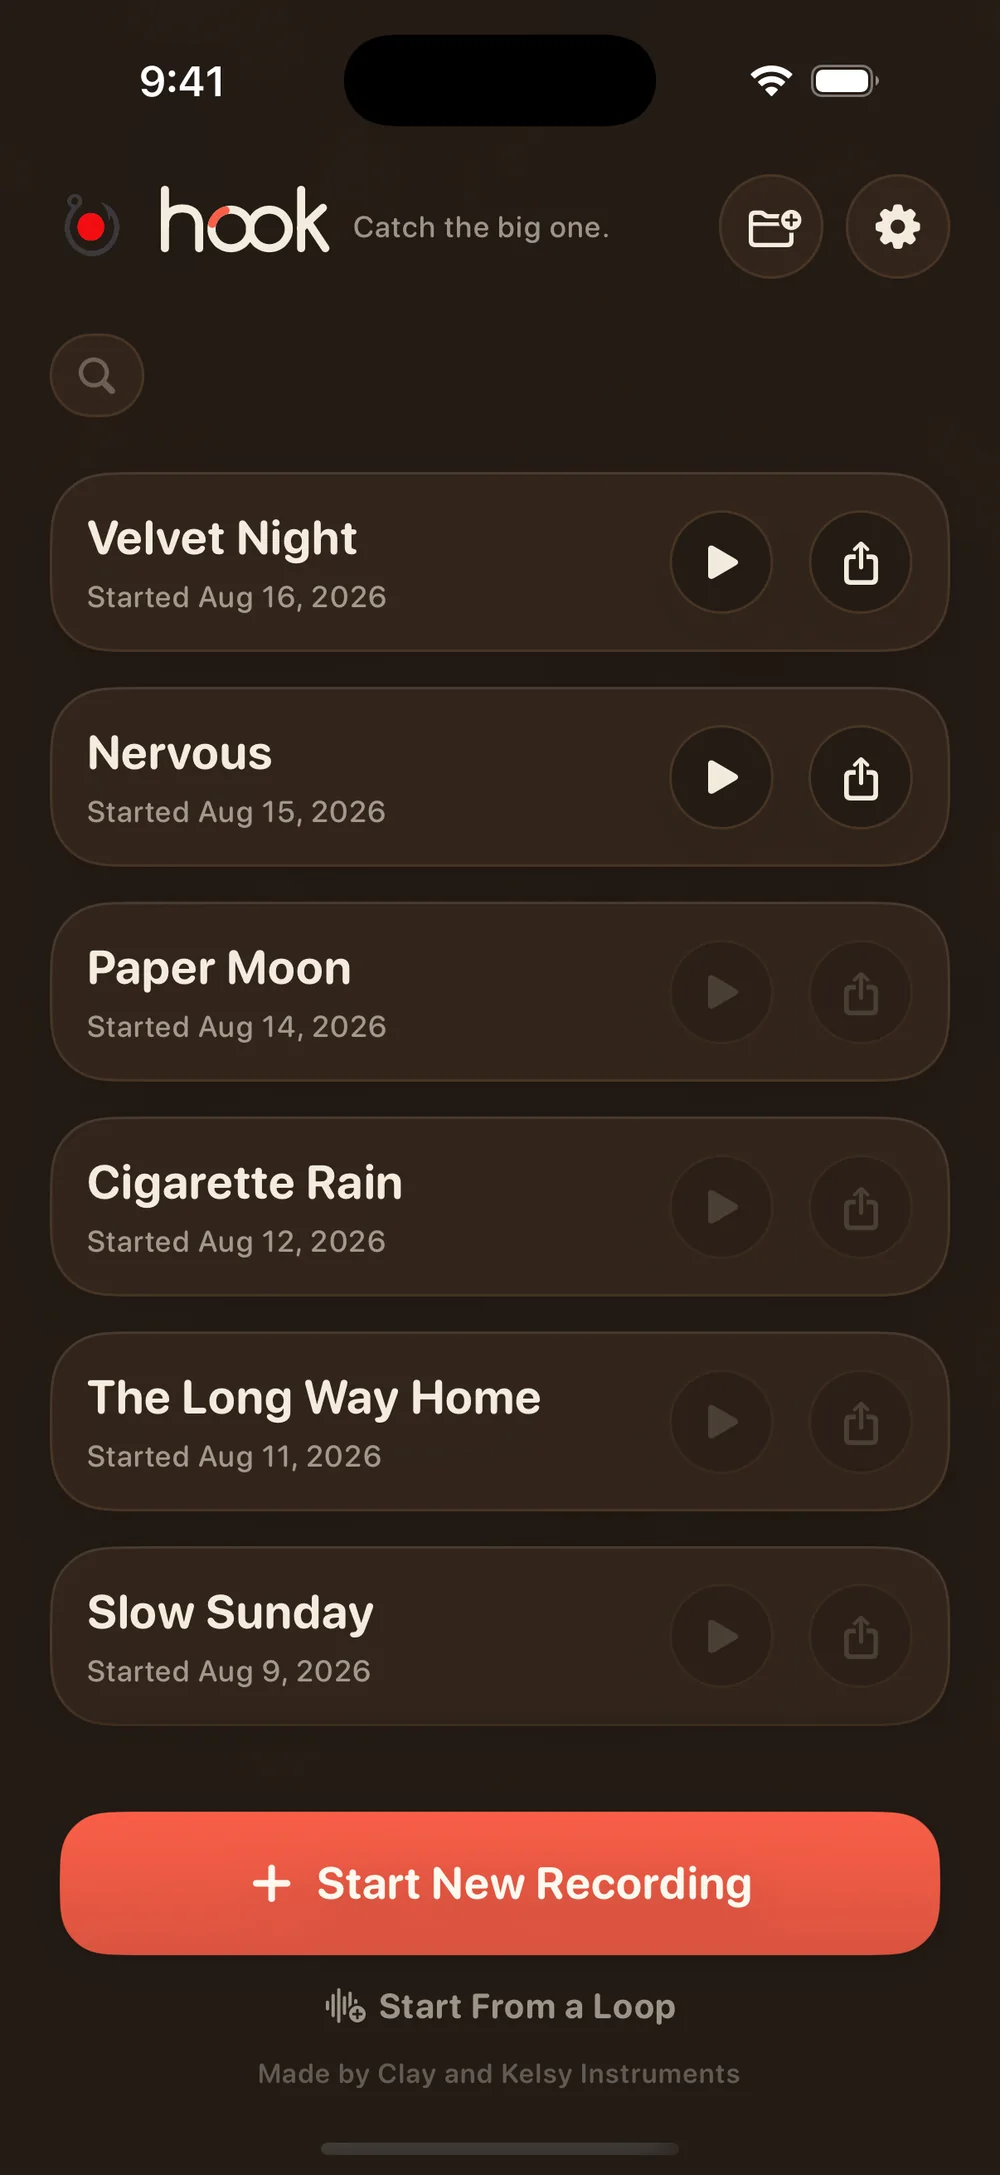
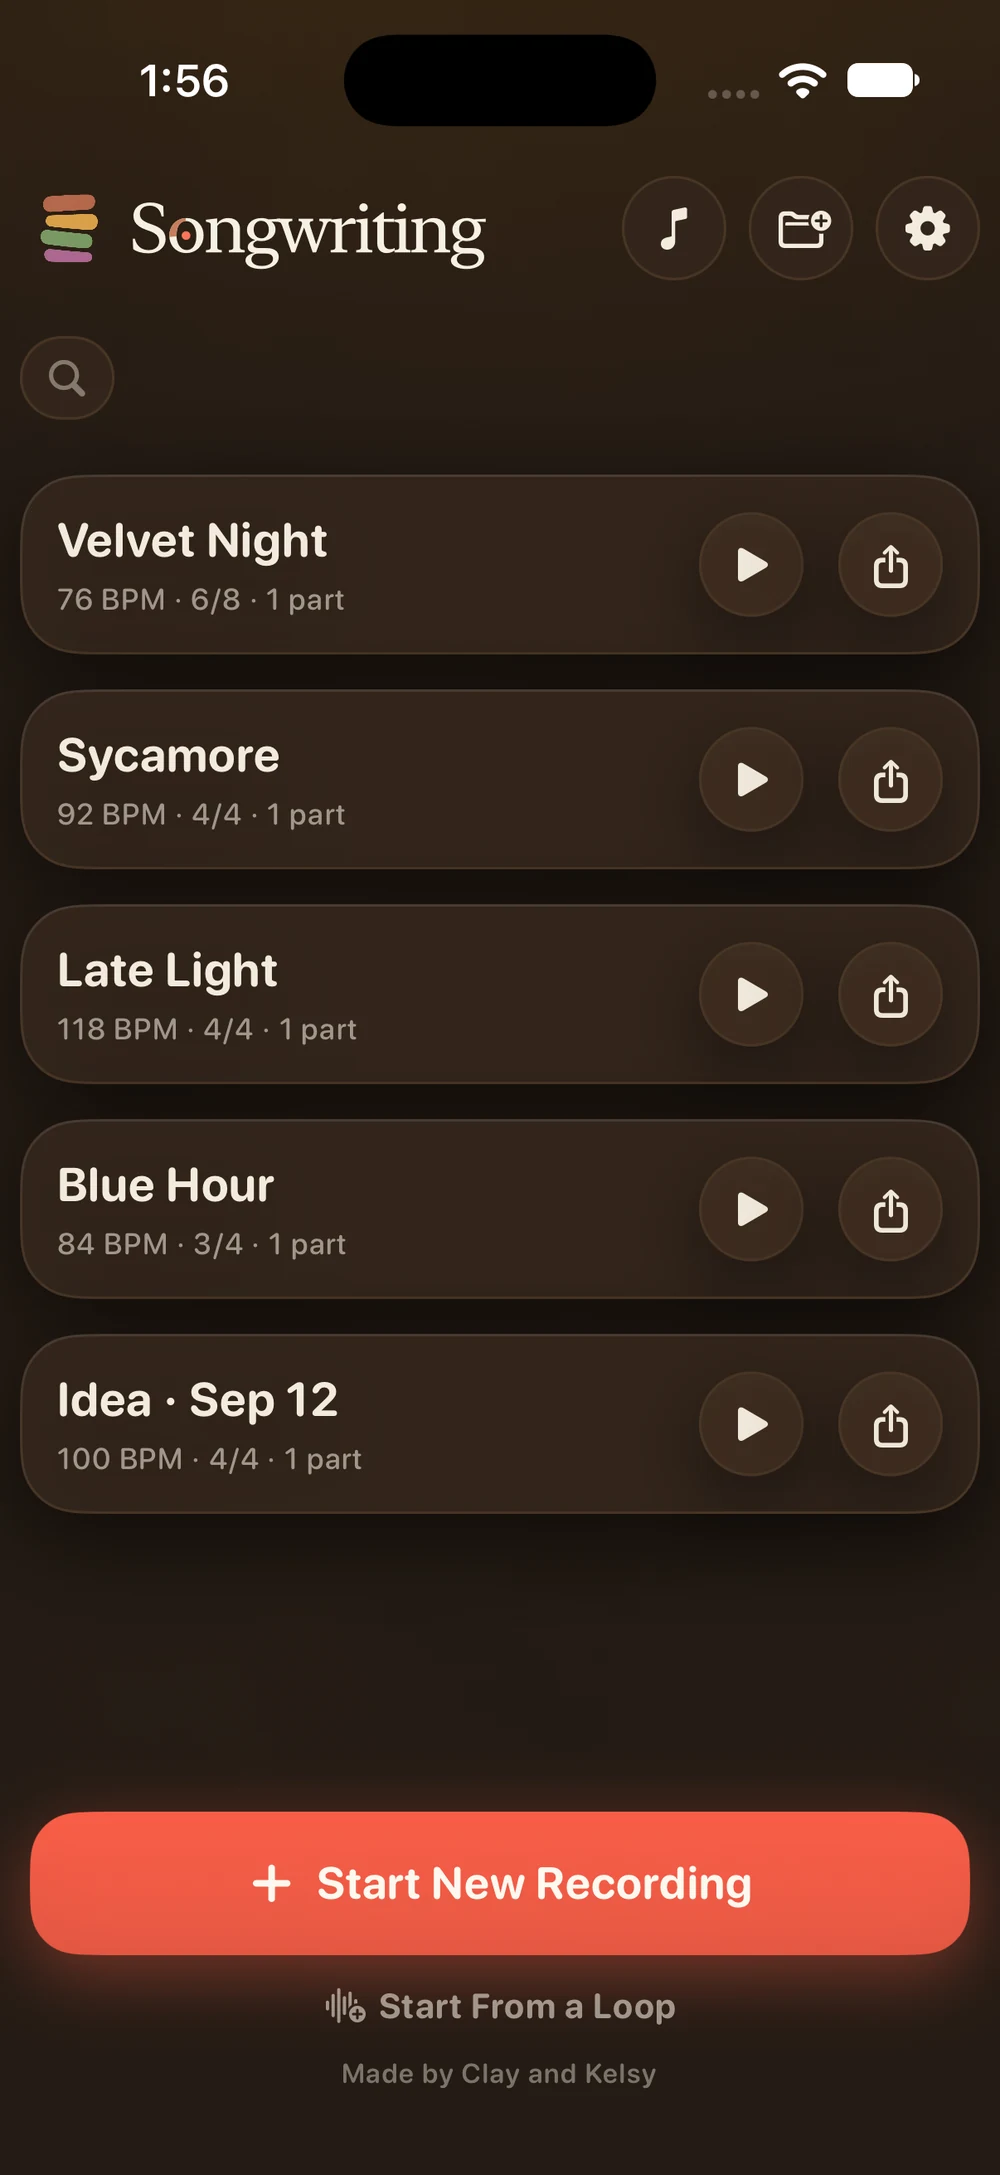
New art: the 20 app screenshots retaken on iOS 27 with the Songwriting branding
Same filenames and pixel sizes (layout unchanged); every image URL now carries
?v=20260915 so browsers and the Pages CDN refetch. Captures by the app chat
(raw 1206x2622 in Hook-Website-Kit/screenshots/2026-09-15).

diff --git a/index.html b/index.html
@@ -40,7 +40,7 @@
      the moment it scrolls away. See app.js. -->
 <link rel="icon" href="assets/hook-logo-384.png">
 <link rel="apple-touch-icon" href="assets/hook-logo-384.png">
-<link rel="preload" as="image" href="assets/recording-lyrics-light.webp" fetchpriority="high">
+<link rel="preload" as="image" href="assets/recording-lyrics-light.webp?v=20260915" fetchpriority="high">
 <link rel="preconnect" href="https://fonts.googleapis.com">
 <link rel="preconnect" href="https://fonts.gstatic.com" crossorigin>
 <link rel="preconnect" href="https://cdn.jsdelivr.net">
@@ -122,15 +122,15 @@
     <figure class="phone hero-phone" id="heroPhone">
       <div class="screen">
         <video class="hero-video" id="heroVideo" muted playsinline loop preload="metadata" hidden></video>
-        <img data-cycle="0" class="s-light on" src="assets/recording-lyrics-light.webp" alt="A recording in the app: tempo, sections, and lyrics with rhyming words colored by sound, chords set over the words" width="664" height="1440" fetchpriority="high" decoding="async">
+        <img data-cycle="0" class="s-light on" src="assets/recording-lyrics-light.webp?v=20260915" alt="A recording in the app: tempo, sections, and lyrics with rhyming words colored by sound, chords set over the words" width="664" height="1440" fetchpriority="high" decoding="async">
         <!-- swapped in by script, so eager: a lazy screen would flash blank when its turn came -->
-        <img data-cycle="0" class="s-dark on"  src="assets/recording-lyrics-dark.webp"  alt="" width="664" height="1440" decoding="async">
-        <img data-cycle="1" class="s-light" src="assets/set-the-feel-light.webp" alt="" width="664" height="1440" decoding="async" style="--focus:52%">
-        <img data-cycle="1" class="s-dark"  src="assets/set-the-feel-dark.webp"  alt="" width="664" height="1440" decoding="async" style="--focus:52%">
-        <img data-cycle="2" class="s-light" src="assets/04-recording-live.webp"  alt="" width="664" height="1440" decoding="async" style="--focus:22%">
-        <img data-cycle="2" class="s-dark"  src="assets/get-counted-in-dark.webp" alt="" width="664" height="1440" decoding="async" style="--focus:22%">
-        <img data-cycle="3" class="s-light" src="assets/13-stack-layers.webp"    alt="" width="664" height="1440" decoding="async" style="--focus:20%">
-        <img data-cycle="3" class="s-dark"  src="assets/D6-stack-vocals-dark.webp" alt="" width="664" height="1440" decoding="async" style="--focus:34%">
+        <img data-cycle="0" class="s-dark on"  src="assets/recording-lyrics-dark.webp?v=20260915"  alt="" width="664" height="1440" decoding="async">
+        <img data-cycle="1" class="s-light" src="assets/set-the-feel-light.webp?v=20260915" alt="" width="664" height="1440" decoding="async" style="--focus:52%">
+        <img data-cycle="1" class="s-dark"  src="assets/set-the-feel-dark.webp?v=20260915"  alt="" width="664" height="1440" decoding="async" style="--focus:52%">
+        <img data-cycle="2" class="s-light" src="assets/04-recording-live.webp?v=20260915"  alt="" width="664" height="1440" decoding="async" style="--focus:22%">
+        <img data-cycle="2" class="s-dark"  src="assets/get-counted-in-dark.webp?v=20260915" alt="" width="664" height="1440" decoding="async" style="--focus:22%">
+        <img data-cycle="3" class="s-light" src="assets/13-stack-layers.webp?v=20260915"    alt="" width="664" height="1440" decoding="async" style="--focus:20%">
+        <img data-cycle="3" class="s-dark"  src="assets/D6-stack-vocals-dark.webp?v=20260915" alt="" width="664" height="1440" decoding="async" style="--focus:34%">
       </div>
       <figcaption class="hero-cap"><span class="tape-dot live" aria-hidden="true">●</span><span id="heroCap">Words &amp; chords</span></figcaption>
     </figure>
@@ -168,12 +168,12 @@
     <div class="walk">
       <figure class="phone walk-phone" id="walkPhone" aria-hidden="true">
         <div class="screen">
-          <img data-step="0" class="s-light on" src="assets/set-the-feel-light.webp" alt="" width="664" height="1440" decoding="async" style="--focus:52%">
-          <img data-step="0" class="s-dark on"  src="assets/set-the-feel-dark.webp"  alt="" width="664" height="1440" decoding="async" style="--focus:52%">
-          <img data-step="1" class="s-light" src="assets/04-recording-live.webp"  alt="" width="664" height="1440" decoding="async" style="--focus:22%">
-          <img data-step="1" class="s-dark"  src="assets/get-counted-in-dark.webp" alt="" width="664" height="1440" decoding="async" style="--focus:22%">
-          <img data-step="2" class="s-light" src="assets/13-stack-layers.webp"    alt="" width="664" height="1440" decoding="async" style="--focus:20%">
-          <img data-step="2" class="s-dark"  src="assets/D6-stack-vocals-dark.webp" alt="" width="664" height="1440" decoding="async" style="--focus:34%">
+          <img data-step="0" class="s-light on" src="assets/set-the-feel-light.webp?v=20260915" alt="" width="664" height="1440" decoding="async" style="--focus:52%">
+          <img data-step="0" class="s-dark on"  src="assets/set-the-feel-dark.webp?v=20260915"  alt="" width="664" height="1440" decoding="async" style="--focus:52%">
+          <img data-step="1" class="s-light" src="assets/04-recording-live.webp?v=20260915"  alt="" width="664" height="1440" decoding="async" style="--focus:22%">
+          <img data-step="1" class="s-dark"  src="assets/get-counted-in-dark.webp?v=20260915" alt="" width="664" height="1440" decoding="async" style="--focus:22%">
+          <img data-step="2" class="s-light" src="assets/13-stack-layers.webp?v=20260915"    alt="" width="664" height="1440" decoding="async" style="--focus:20%">
+          <img data-step="2" class="s-dark"  src="assets/D6-stack-vocals-dark.webp?v=20260915" alt="" width="664" height="1440" decoding="async" style="--focus:34%">
         </div>
       </figure>
 
@@ -183,8 +183,8 @@
           <h3>Set the feel</h3>
           <p>Tempo, time signature, bars &mdash; or Endless, when you&rsquo;d rather just hit record and go &mdash; and a &ldquo;hear this tempo&rdquo; button so you can trust it before you commit.</p>
           <figure class="phone walk-mob"><div class="screen">
-            <img class="s-light on" src="assets/set-the-feel-light.webp" alt="New recording setup: loop length with an Endless option, tempo, and time signature" width="664" height="1440" decoding="async" style="--focus:52%">
-            <img class="s-dark on"  src="assets/set-the-feel-dark.webp"  alt="" width="664" height="1440" decoding="async" style="--focus:52%">
+            <img class="s-light on" src="assets/set-the-feel-light.webp?v=20260915" alt="New recording setup: loop length with an Endless option, tempo, and time signature" width="664" height="1440" decoding="async" style="--focus:52%">
+            <img class="s-dark on"  src="assets/set-the-feel-dark.webp?v=20260915"  alt="" width="664" height="1440" decoding="async" style="--focus:52%">
           </div></figure>
         </li>
         <li class="walk-step" data-step="1">
@@ -193,8 +193,8 @@
           <p>Four beats, an accent on one, and you&rsquo;re rolling. The moment you finish, it loops.</p>
           <span class="countin" aria-hidden="true"><i></i><i></i><i></i><i></i></span>
           <figure class="phone walk-mob"><div class="screen">
-            <img class="s-light on" src="assets/04-recording-live.webp"  alt="Recording live: count-in and beat display mid-take" width="664" height="1440" decoding="async" style="--focus:22%">
-            <img class="s-dark on"  src="assets/get-counted-in-dark.webp" alt="" width="664" height="1440" decoding="async" style="--focus:22%">
+            <img class="s-light on" src="assets/04-recording-live.webp?v=20260915"  alt="Recording live: count-in and beat display mid-take" width="664" height="1440" decoding="async" style="--focus:22%">
+            <img class="s-dark on"  src="assets/get-counted-in-dark.webp?v=20260915" alt="" width="664" height="1440" decoding="async" style="--focus:22%">
           </div></figure>
         </li>
         <li class="walk-step" data-step="2">
@@ -202,8 +202,8 @@
           <h3>Stack your layers</h3>
           <p>Layer up to 6 layers per stack on headphones, each with its own waveform, volume, mute, and name. Group the stacks. Keep writing new parts.</p>
           <figure class="phone walk-mob"><div class="screen">
-            <img class="s-light on" src="assets/13-stack-layers.webp"    alt="Four colored layers stacked — blue, gold, green, purple waveforms" width="664" height="1440" decoding="async" style="--focus:20%">
-            <img class="s-dark on"  src="assets/D6-stack-vocals-dark.webp" alt="" width="664" height="1440" decoding="async" style="--focus:34%">
+            <img class="s-light on" src="assets/13-stack-layers.webp?v=20260915"    alt="Four colored layers stacked — blue, gold, green, purple waveforms" width="664" height="1440" decoding="async" style="--focus:20%">
+            <img class="s-dark on"  src="assets/D6-stack-vocals-dark.webp?v=20260915" alt="" width="664" height="1440" decoding="async" style="--focus:34%">
           </div></figure>
         </li>
       </ol>
@@ -249,8 +249,8 @@ Secrets that the sycamores keep</textarea>
     </div>
     <figure class="phone floaty">
       <div class="screen">
-        <img class="s-light on" src="assets/recording-lyrics-light.webp" alt="The lyric editor with real chords set over the words and rhymes colored by sound" width="664" height="1440" decoding="async">
-        <img class="s-dark on"  src="assets/recording-lyrics-dark.webp"  alt="" width="664" height="1440" decoding="async">
+        <img class="s-light on" src="assets/recording-lyrics-light.webp?v=20260915" alt="The lyric editor with real chords set over the words and rhymes colored by sound" width="664" height="1440" decoding="async">
+        <img class="s-dark on"  src="assets/recording-lyrics-dark.webp?v=20260915"  alt="" width="664" height="1440" decoding="async">
       </div>
       <figcaption>Chords over the words, rhymes matched by sound.</figcaption>
     </figure>
@@ -280,16 +280,16 @@ Secrets that the sycamores keep</textarea>
     </div>
     <div class="calib-shots">
       <figure class="phone sm reveal"><div class="screen">
-        <img class="s-light on" src="assets/calib-listen.webp" alt="Calibration: the app plays a sound and listens for it coming back" width="664" height="1440" decoding="async">
-        <img class="s-dark on"  src="assets/calib-listen-dark.webp" alt="" width="664" height="1440" decoding="async">
+        <img class="s-light on" src="assets/calib-listen.webp?v=20260915" alt="Calibration: the app plays a sound and listens for it coming back" width="664" height="1440" decoding="async">
+        <img class="s-dark on"  src="assets/calib-listen-dark.webp?v=20260915" alt="" width="664" height="1440" decoding="async">
       </div><figcaption>It listens</figcaption></figure>
       <figure class="phone sm reveal"><div class="screen">
-        <img class="s-light on" src="assets/09-settings-measured-headphones.webp" alt="Your headphones, measured and remembered" width="664" height="1440" decoding="async">
-        <img class="s-dark on"  src="assets/D3-settings-measured-headphones-dark.webp" alt="" width="664" height="1440" decoding="async">
+        <img class="s-light on" src="assets/09-settings-measured-headphones.webp?v=20260915" alt="Your headphones, measured and remembered" width="664" height="1440" decoding="async">
+        <img class="s-dark on"  src="assets/D3-settings-measured-headphones-dark.webp?v=20260915" alt="" width="664" height="1440" decoding="async">
       </div><figcaption>It remembers your gear</figcaption></figure>
       <figure class="phone sm reveal"><div class="screen">
-        <img class="s-light on" src="assets/calib-tryagain.webp" alt="When a reading isn't clean, the app says so and offers Try Again" width="664" height="1440" decoding="async">
-        <img class="s-dark on"  src="assets/calib-tryagain-dark.webp" alt="" width="664" height="1440" decoding="async">
+        <img class="s-light on" src="assets/calib-tryagain.webp?v=20260915" alt="When a reading isn't clean, the app says so and offers Try Again" width="664" height="1440" decoding="async">
+        <img class="s-dark on"  src="assets/calib-tryagain-dark.webp?v=20260915" alt="" width="664" height="1440" decoding="async">
       </div><figcaption>It never guesses</figcaption></figure>
     </div>
   </div>
@@ -330,8 +330,8 @@ Secrets that the sycamores keep</textarea>
     </div>
     <figure class="phone floaty">
       <div class="screen">
-        <img class="s-light on" src="assets/01-home-library.webp" alt="The library, full of recordings" width="664" height="1440" decoding="async">
-        <img class="s-dark on"  src="assets/D1-home-library-dark.webp" alt="" width="664" height="1440" decoding="async">
+        <img class="s-light on" src="assets/01-home-library.webp?v=20260915" alt="The library, full of recordings" width="664" height="1440" decoding="async">
+        <img class="s-dark on"  src="assets/D1-home-library-dark.webp?v=20260915" alt="" width="664" height="1440" decoding="async">
       </div>
       <figcaption>Your library &mdash; every idea, kept.</figcaption>
     </figure>
@@ -343,8 +343,8 @@ Secrets that the sycamores keep</textarea>
   <div class="wrap perform-grid">
     <figure class="phone floaty">
       <div class="screen">
-        <img class="s-light on" src="assets/perform-light.webp" alt="Perform mode: big lyrics with chords set above the words and rhyme colors, a speed slider and play controls" width="664" height="1440" decoding="async">
-        <img class="s-dark on"  src="assets/perform-dark.webp"  alt="" width="664" height="1440" decoding="async">
+        <img class="s-light on" src="assets/perform-light.webp?v=20260915" alt="Perform mode: big lyrics with chords set above the words and rhyme colors, a speed slider and play controls" width="664" height="1440" decoding="async">
+        <img class="s-dark on"  src="assets/perform-dark.webp?v=20260915"  alt="" width="664" height="1440" decoding="async">
       </div>
       <figcaption>Perform &mdash; your words, hands-free.</figcaption>
     </figure>
@@ -376,8 +376,8 @@ Secrets that the sycamores keep</textarea>
     </div>
     <figure class="phone floaty">
       <div class="screen">
-        <img class="s-light on" src="assets/13-stack-layers.webp" alt="Layers stacked in the app" width="664" height="1440" decoding="async" style="--focus:12%">
-        <img class="s-dark on"  src="assets/D7-stacks-dark.webp"  alt="" width="664" height="1440" decoding="async" style="--focus:12%">
+        <img class="s-light on" src="assets/13-stack-layers.webp?v=20260915" alt="Layers stacked in the app" width="664" height="1440" decoding="async" style="--focus:12%">
+        <img class="s-dark on"  src="assets/D7-stacks-dark.webp?v=20260915"  alt="" width="664" height="1440" decoding="async" style="--focus:12%">
       </div>
       <figcaption>Import your demo, write your parts, work like a pro.</figcaption>
     </figure>
@@ -399,8 +399,8 @@ Secrets that the sycamores keep</textarea>
       </div>
     </div>
     <figure class="sheet-stack reveal" aria-label="An exported chord sheet from the app: the song Velvet Night, chords set over the lyrics">
-      <img class="sheet-back" src="assets/sheet-velvet-1.webp" alt="" width="865" height="1120" decoding="async">
-      <img class="sheet-front" src="assets/sheet-velvet-1.webp" alt="Exported chord sheet — 'Velvet Night', 6/8 at 76 BPM, chords set over the lyric lines" width="865" height="1120" decoding="async">
+      <img class="sheet-back" src="assets/sheet-velvet-1.webp?v=20260915" alt="" width="865" height="1120" decoding="async">
+      <img class="sheet-front" src="assets/sheet-velvet-1.webp?v=20260915" alt="Exported chord sheet — 'Velvet Night', 6/8 at 76 BPM, chords set over the lyric lines" width="865" height="1120" decoding="async">
     </figure>
   </div>
 </section>
@@ -408,7 +408,7 @@ Secrets that the sycamores keep</textarea>
 <!-- ============ THE MAKERS ============ -->
 <section class="makers">
   <div class="wrap narrow reveal">
-    <span class="mark big"><img src="assets/songwriting-layers.webp" alt="" width="74" height="87" decoding="async"></span>
+    <span class="mark big"><img src="assets/songwriting-layers.webp?v=20260915" alt="" width="74" height="87" decoding="async"></span>
     <blockquote class="manifesto">
       <p>&ldquo;If you want to catch the big fish, you&rsquo;ve got to go deeper.&rdquo;</p>
       <p class="mf-cite">&mdash; David Lynch</p>
